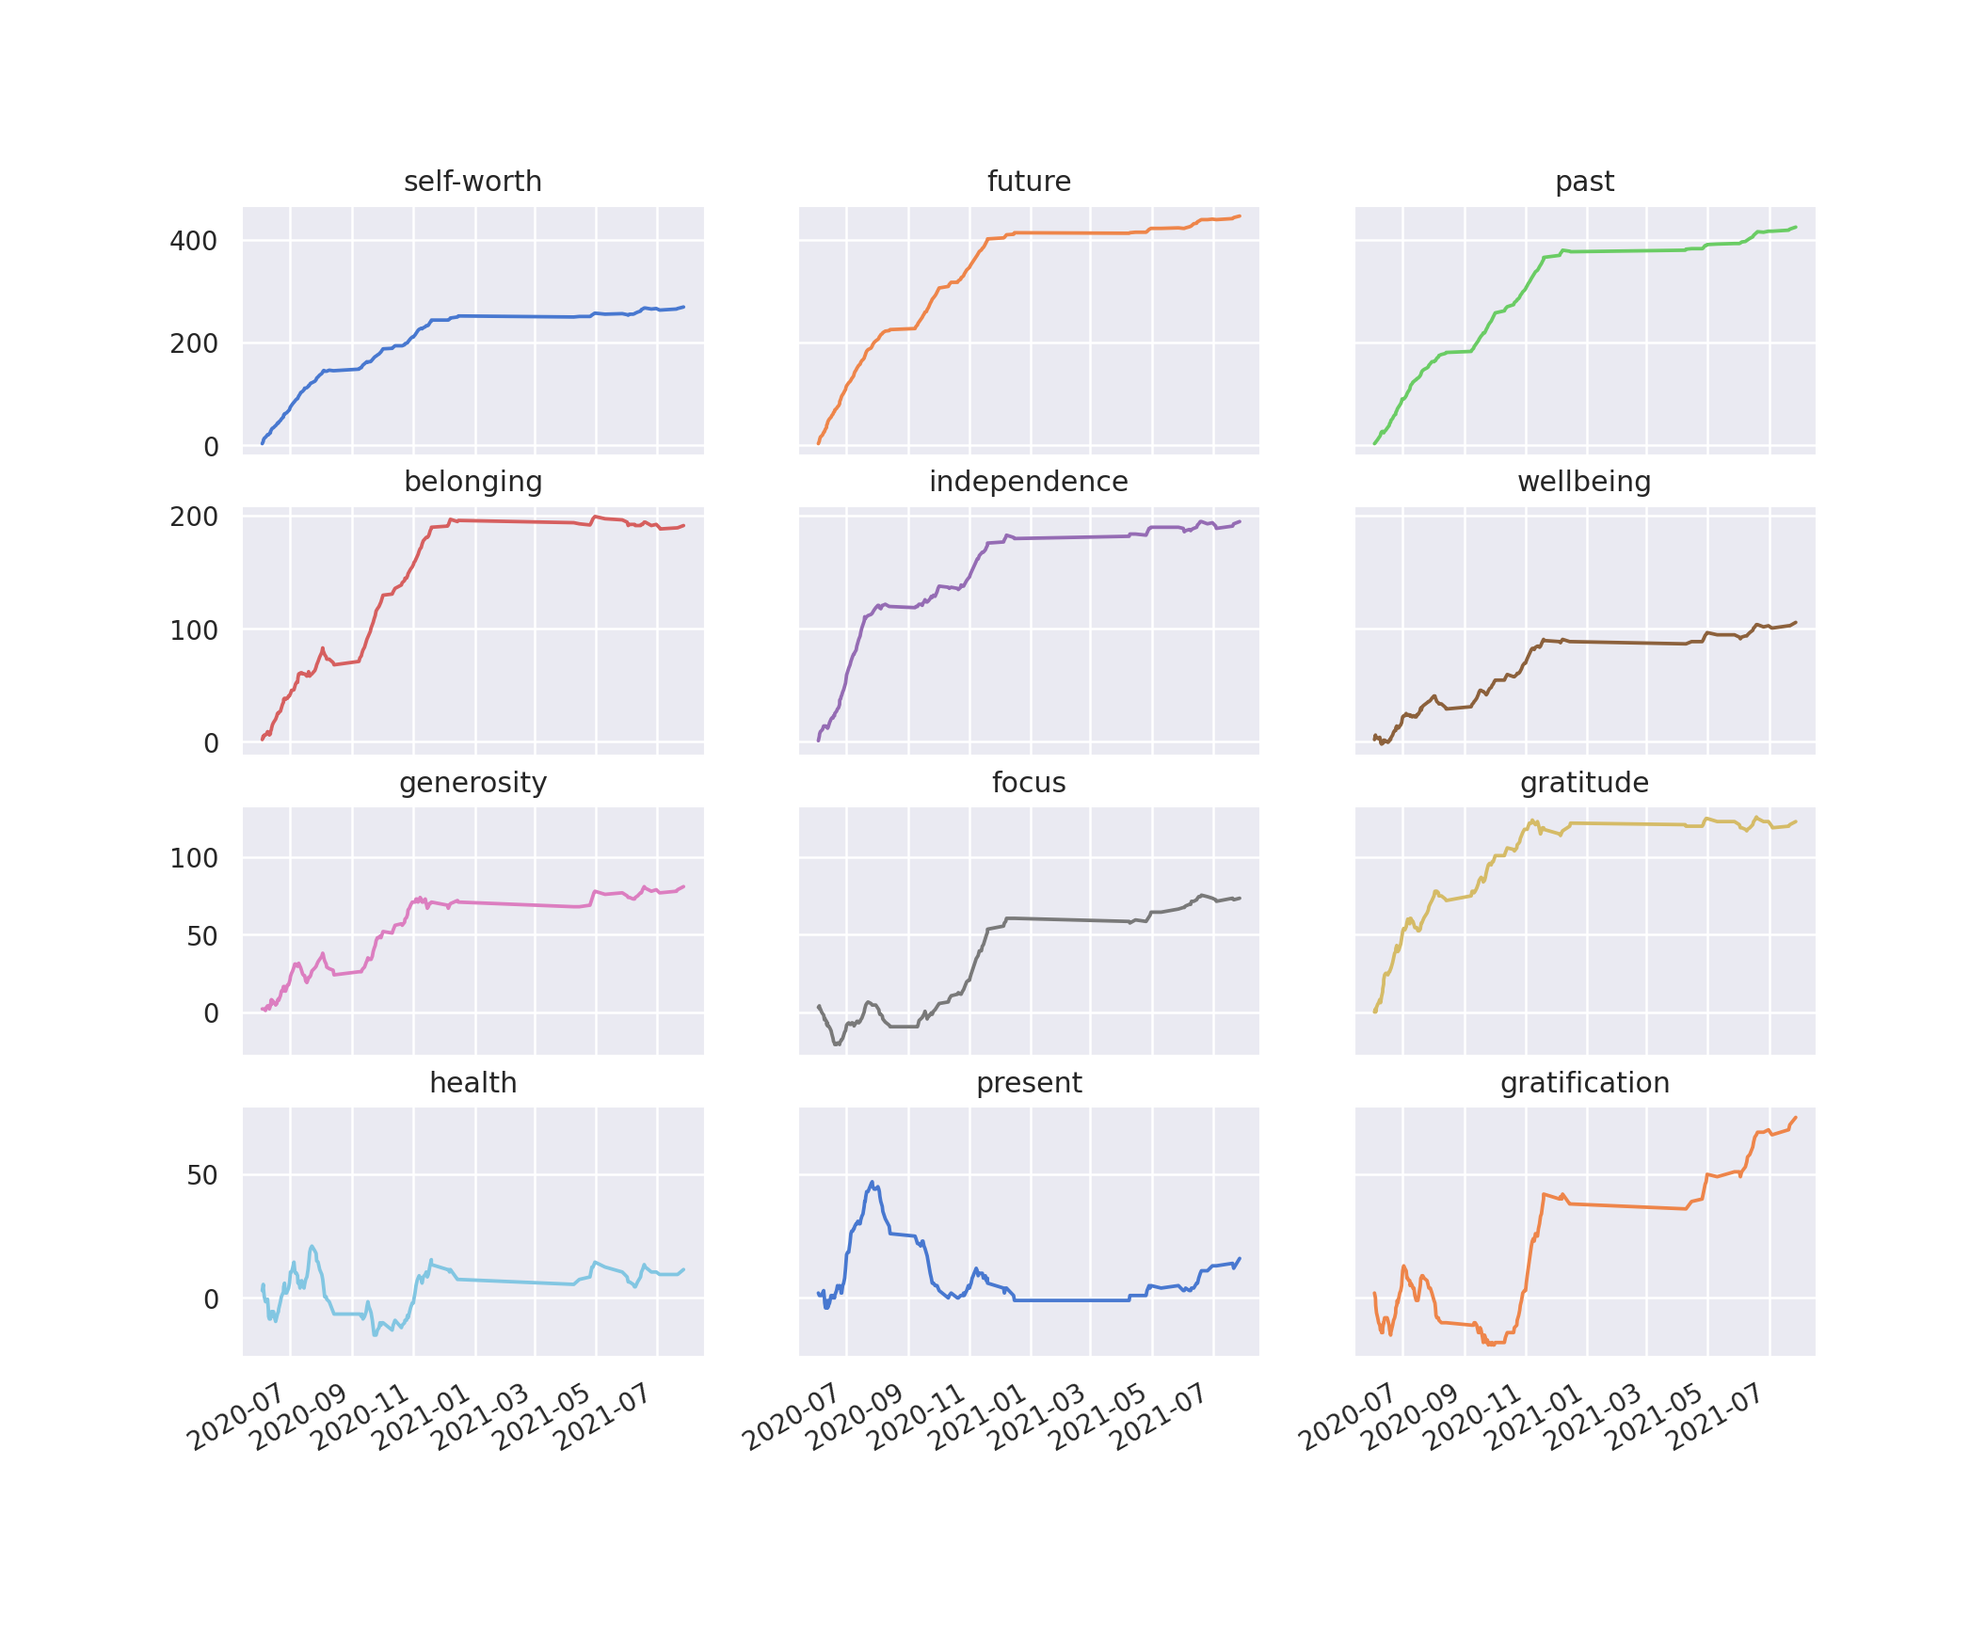
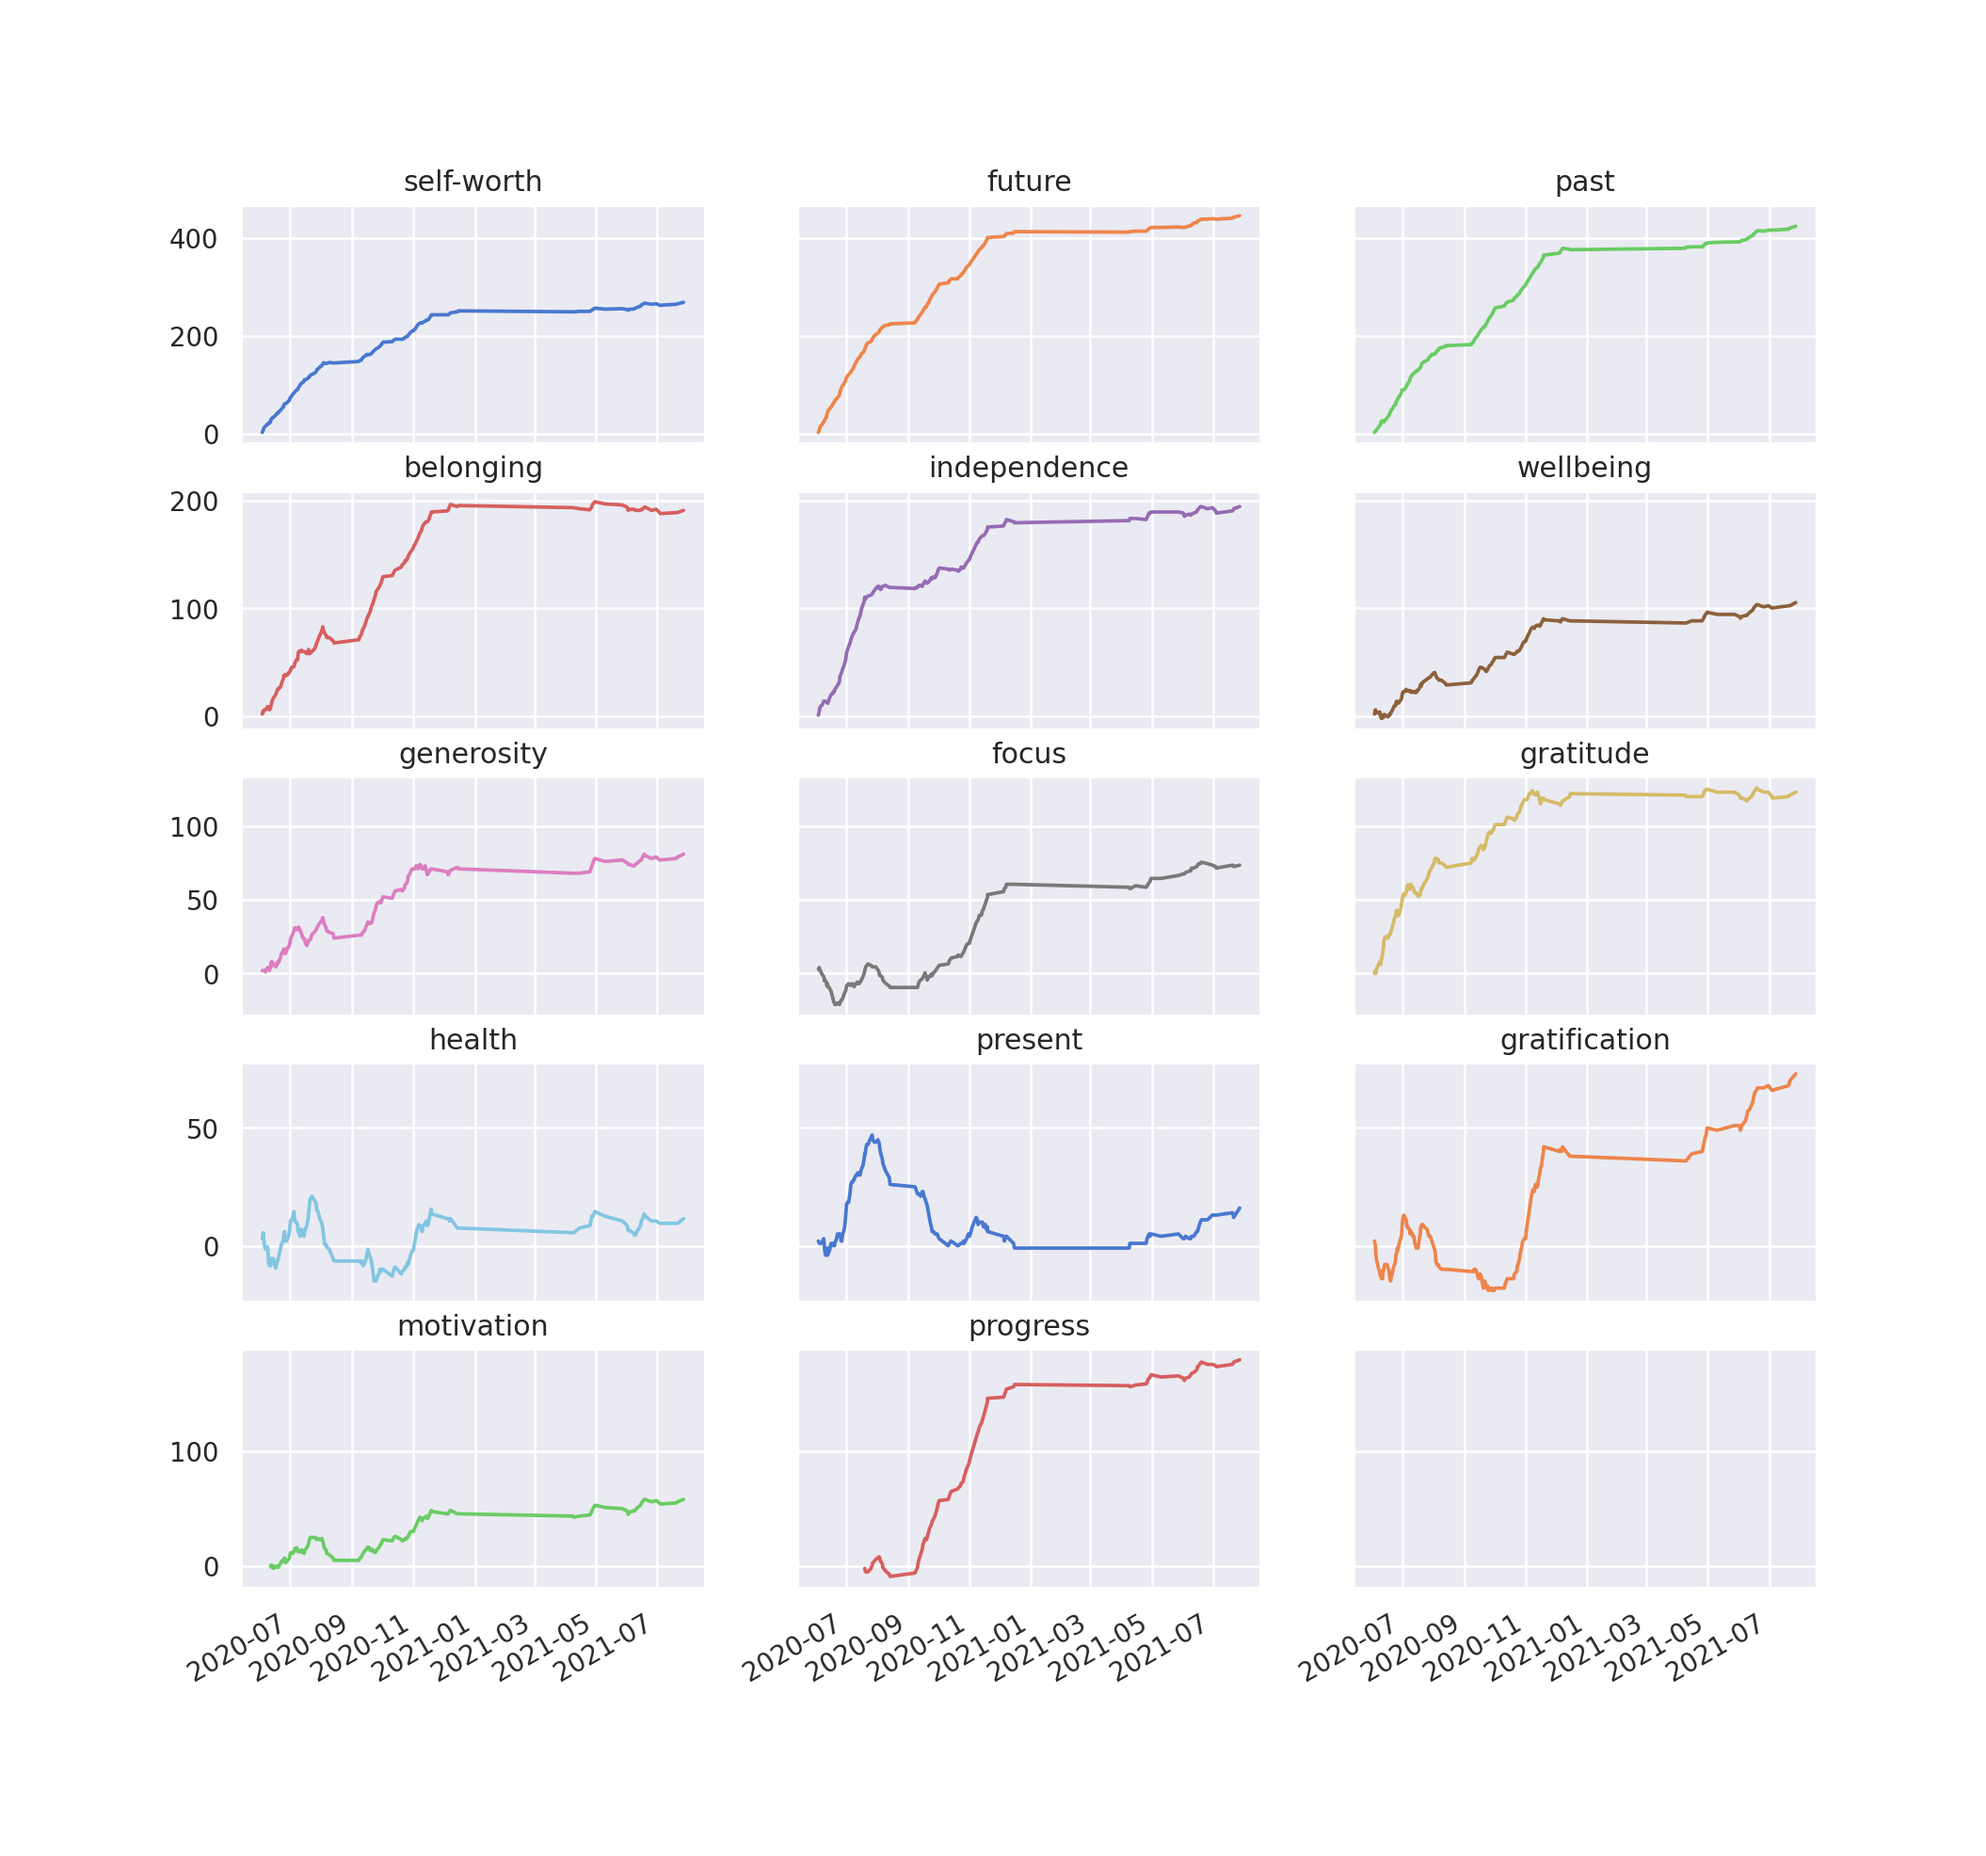
Add motivation and progress to features.

diff --git a/gamithra.py b/gamithra.py
@@ -42,13 +42,13 @@ df.sort_index(inplace=True)
 
 # %%
 os.chdir("results")
-features = ['self-worth', 'future', 'past', 'belonging', 'independence', 'wellbeing', 'generosity', 'focus', 'gratitude', 'health', 'present', 'gratification']
+features = ['self-worth', 'future', 'past', 'belonging', 'independence', 'wellbeing', 'generosity', 'focus', 'gratitude', 'health', 'present', 'gratification', 'motivation', 'progress']
 
 # %%
 def plot_reg(df, x, title:str, to_file: bool = False):
     colors = cycle(sns.color_palette("muted"))
 
-    fig, axs = plt.subplots(4, 3, sharex="all", sharey="all", figsize=(12, 10))
+    fig, axs = plt.subplots(5, 3, sharex="all", sharey="all", figsize=(12, 12))
     for key, ax in zip(features, axs.flat):
         sns.regplot(ax=ax, x=x, y=key, data=df, lowess=True, color=next(colors))
         ax.set_title(key)
@@ -64,7 +64,7 @@ def plot_reg(df, x, title:str, to_file: bool = False):
 # %%
 # summarise points
 
-plot_reg(df, "date_delta", "summarise_points")
+plot_reg(df, "date_delta", "summarise_points", True)
 
 # %%
 # cumulative change
@@ -72,7 +72,7 @@ cumm = (df[features] - 5).cumsum()
 
 colors = cycle(sns.color_palette("muted"))
 
-fig, axs = plt.subplots(4,3, sharex="all", sharey="row", figsize=(12, 10))
+fig, axs = plt.subplots(5,3, sharex="all", sharey="row", figsize=(12, 12))
 for key, ax in zip(features, axs.flat):
     ax.plot(cumm[key], color=next(colors))
     ax.set_title(key)
@@ -99,7 +99,7 @@ sns.heatmap(corr, annot=True, fmt=".1f")
 plt.savefig("correlations.png",dpi=180, pad_inches=1, bbox_inches="tight")
 
 # %%
-X = df[features] / 10
+X = df[features].fillna(0) / 10
 pca = PCA(n_components=2)
 X_transformed = pca.fit_transform(X)
 
